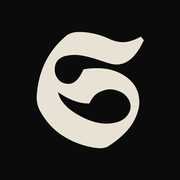
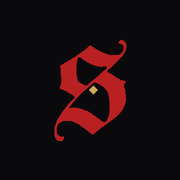
Add files via upload

Changed region(s): [[0.1944, 0.1667, 0.8056, 0.8333]]

diff --git a/index.html b/index.html
@@ -21,6 +21,8 @@
   --ash:#8B8780;
   --dim:#5E5B56;
   --sanguis:#8C1626;
+  --crimson:#B92022;
+  --gold:#CDAB58;
   --sanguis-lo:#4A0C15;
   --viola:#5A4670;
   --viola-lo:#2E2440;
@@ -52,14 +54,15 @@ button{font:inherit;color:inherit;background:none;border:none;cursor:pointer}
 /* ---- header ---- */
 header{padding:14px 18px 12px;border-bottom:1px solid var(--edge);
   display:flex;align-items:center;gap:14px;background:var(--nox);position:sticky;top:0;z-index:20}
-.mark{width:36px;flex:0 0 36px}
+.mark{width:30px;flex:0 0 30px}
 .mark svg{width:100%;height:auto;display:block}
-.mark path{fill:var(--ossa);stroke:none}
+.mark path{stroke:none}
 .hsub .cist{display:inline-block;width:10px;margin-right:8px;vertical-align:-1px}
 .hsub .cist svg{width:100%;height:auto;display:block}
 .hsub .cist path{stroke:var(--dim);stroke-width:5;fill:none;stroke-linecap:square}
 .hgroup{flex:1;min-width:0}
-.wordmark{font-family:var(--serif);font-size:19px;letter-spacing:.34em;line-height:1;margin:0 0 5px}
+.wordmark{width:132px;margin:0 0 6px}
+.wordmark svg{width:100%;height:auto;display:block}
 .hsub{font-size:9.5px;letter-spacing:.18em;text-transform:uppercase;color:var(--dim)}
 .hbtn{padding:8px;margin:-8px;color:var(--ash);font-size:11px;letter-spacing:.14em;text-transform:uppercase}
 
@@ -195,6 +198,49 @@ header{padding:14px 18px 12px;border-bottom:1px solid var(--edge);
 .cardacts{display:flex;gap:9px;margin-top:17px;width:100%;max-width:450px}
 .cardacts .btn{padding:14px 4px;font-size:10px;letter-spacing:.08em}
 #cardHint{font-size:11px;color:var(--dim);margin:14px 0 0;text-align:center;max-width:350px;line-height:1.6}
+/* ---- session summary, after the reference ---- */
+.doneWrap{padding:26px 22px 10px;text-align:center}
+.doneMark{width:104px;margin:0 auto 16px}
+.doneMark svg{width:100%;height:auto;display:block}
+.doneWord{width:232px;margin:0 auto 30px}
+.doneWord svg{width:100%;height:auto;display:block}
+.vaulted{font-family:var(--serif);font-style:italic;font-size:21px;color:#7E7D85;margin-bottom:34px}
+.volLabel{font-size:10px;letter-spacing:.24em;text-transform:uppercase;color:#7E7D85;margin-bottom:10px}
+.volBig{font-family:var(--mono);font-size:46px;color:var(--gold);line-height:1;margin-bottom:32px;
+  font-variant-numeric:tabular-nums}
+.volBig .u{font-size:34px;margin-left:12px}
+.trio{display:flex;margin-bottom:30px}
+.trio div{flex:1}
+.trio .k{font-size:9.5px;letter-spacing:.2em;text-transform:uppercase;color:#7E7D85;margin-bottom:9px}
+.trio .v{font-family:var(--mono);font-size:23px;color:var(--ossa)}
+#doneNotes{width:100%;min-height:104px;background:var(--crypt);border:1px solid var(--edge);
+  color:var(--ossa);font-family:var(--sys);font-size:14px;padding:14px;border-radius:10px;
+  -webkit-appearance:none;resize:none;line-height:1.5}
+#doneNotes::placeholder{color:var(--dim)}
+.btn.save{background:var(--crimson);border-color:var(--crimson);color:#fff;border-radius:10px}
+.btn.save:active{background:#9C1A1C}
+.doneRecs{text-align:left;margin-top:30px}
+
+/* ---- history detail ---- */
+.hrow{cursor:pointer}
+.hrow .go{color:var(--dim);font-size:15px;flex:0 0 auto;margin-left:2px}
+.dtHead{padding:22px 18px 16px;border-bottom:1px solid var(--edge)}
+.dtHead h2{font-family:var(--serif);font-size:24px;margin:0 0 6px}
+.dtHead .sub{font-size:10.5px;letter-spacing:.14em;text-transform:uppercase;color:var(--ash)}
+.dtStats{display:flex;padding:16px 18px;border-bottom:1px solid var(--edge)}
+.dtStats div{flex:1}
+.dtStats .k{font-size:9px;letter-spacing:.18em;text-transform:uppercase;color:var(--ash);margin-bottom:6px}
+.dtStats .v{font-family:var(--mono);font-size:16px}
+.dtStats .v.gold{color:var(--gold)}
+.dtEx{padding:15px 18px;border-bottom:1px solid var(--stone)}
+.dtEx h5{font-family:var(--serif);font-size:16px;font-weight:400;margin:0 0 3px;line-height:1.3}
+.dtEx .tg{font-size:9.5px;letter-spacing:.14em;text-transform:uppercase;color:var(--dim);margin-bottom:9px}
+.dtSets{display:flex;flex-wrap:wrap;gap:7px}
+.dtSet{font-family:var(--mono);font-size:12.5px;background:var(--crypt);border:1px solid var(--edge);
+  padding:7px 10px;color:var(--ossa)}
+.dtSet.pr{border-color:var(--crimson);color:var(--crimson)}
+.dtEx.sk h5{color:var(--dim);text-decoration:line-through}
+.dtNote{margin:10px 0 0;font-size:13px;color:var(--ash);line-height:1.55;font-style:italic}
 #toast{position:fixed;left:50%;bottom:96px;transform:translate(-50%,14px);z-index:60;
   background:var(--stone);border:1px solid var(--edge);padding:11px 17px;font-size:12px;
   opacity:0;transition:.25s;pointer-events:none;max-width:88vw;text-align:center}
@@ -207,7 +253,7 @@ header{padding:14px 18px 12px;border-bottom:1px solid var(--edge);
   <header>
     <div class="mark" id="mark"></div>
     <div class="hgroup">
-      <div class="wordmark">SANCTVM</div>
+      <div class="wordmark" id="wordmark"></div>
       <div class="hsub" id="hsub">Ora · et · Labora</div>
     </div>
     <button class="hbtn" id="navBtn">Log</button>
@@ -278,11 +324,32 @@ header{padding:14px 18px 12px;border-bottom:1px solid var(--edge);
   </section>
   <!-- SESSION SUMMARY -->
   <section class="screen" id="scDone">
-    <div class="scroll"><div class="sec" id="doneStats"></div></div>
+    <div class="scroll">
+      <div class="doneWrap">
+        <div class="doneMark" id="doneMark"></div>
+        <div class="doneWord" id="doneWord"></div>
+        <div class="vaulted">Progress vaulted.</div>
+        <div class="volLabel">Volume</div>
+        <div class="volBig" id="volBig">0<span class="u">kg</span></div>
+        <div class="trio" id="doneTrio"></div>
+        <textarea id="doneNotes" placeholder="Notes"></textarea>
+        <div class="doneRecs" id="doneRecs"></div>
+      </div>
+    </div>
     <div class="foot"><div class="in">
-      <button class="btn" id="doneHome">Done</button>
-      <button class="btn pri" id="makeCard">Make card</button>
+      <button class="btn" id="makeCard">Card</button>
+      <button class="btn save" id="doneHome">Save</button>
     </div></div>
+  </section>
+
+  <!-- HISTORY DETAIL -->
+  <section class="screen" id="scDetail">
+    <div class="scroll">
+      <div class="dtHead"><h2 id="dtName">—</h2><div class="sub" id="dtSub"></div></div>
+      <div class="dtStats" id="dtStats"></div>
+      <div id="dtBody"></div>
+    </div>
+    <div class="foot"><div class="in"><button class="btn" id="dtBack">Back</button></div></div>
   </section>
 </div>
 
@@ -391,7 +458,8 @@ function weekStart(){
 }
 
 /* ---- wordmark letter: UnifrakturCook (SIL OFL 1.1), drawn as a path so no font loads ---- */
-const MARK='<svg viewBox="41 -1564 1414 1534" aria-hidden="true"><g transform="scale(1,-1)"><path d="M994 1475Q1087 1429 1183.5 1429.0Q1280 1429 1416 1502L1455 1455Q1307 1134 1095 1134Q1036 1134 939 1168Q670 1261 549 1261Q492 1261 435 1250Q279 1217 279 1066Q279 1012 307 965Q357 879 465.0 879.0Q573 879 659 1071Q752 1086 835 1086Q999 1086 1123 1028Q1310 941 1370 784Q1395 719 1395.0 632.5Q1395 546 1345 432Q1260 236 996 62Q947 30 885 30Q821 30 746 47Q546 89 376.0 200.0Q206 311 94 506Q41 595 41 703Q41 716 42 729Q77 1215 426 1509Q492 1565 608 1564Q802 1561 994 1475ZM322 769Q360 594 610 457Q799 354 962 354Q1016 354 1067 365Q1169 386 1222 445Q1280 509 1280.0 579.5Q1280 650 1222.5 717.0Q1165 784 1041 805Q1029 807 996.0 807.0Q963 807 887 778Q792 742 736 620Q727 620 718 620Q539 620 322 769Z"/></g></svg>';
+const MARK='<svg viewBox="0 0 1608.00 2160.00"><g transform="translate(0.00,2160.00) scale(0.10,-0.10)"><path fill="#B92022" d="M13740 20365 c-73 -35 -349 -306 -385 -379 -75 -151 -10 -278 157 -306 37 -7 100 -28 140 -47 99 -48 139 -61 217 -73 130 -21 307 -157 378 -291 l28 -54 3 -345 c4 -403 7 -380 -96 -590 l-76 -155 -200 -201 c-217 -218 -240 -235 -446 -334 l-134 -65 -846 0 -845 0 -100 47 c-102 48 -145 61 -226 72 -26 4 -80 23 -120 42 -100 49 -140 62 -218 74 -39 7 -105 29 -161 55 -52 24 -120 49 -150 56 -30 6 -75 15 -100 21 -50 11 -1265 614 -1317 654 -18 14 -59 48 -90 75 -32 28 -106 75 -165 105 -93 48 -122 70 -233 175 -137 131 -184 159 -295 179 -100 18 -128 39 -202 149 -45 66 -93 85 -223 85 -178 0 -163 10 -589 -412 l-361 -358 -110 -56 c-72 -37 -136 -79 -185 -122 -48 -42 -114 -86 -183 -122 -94 -48 -124 -70 -239 -179 -114 -109 -144 -131 -237 -179 -68 -35 -133 -78 -181 -120 -47 -42 -114 -86 -180 -120 -66 -34 -133 -79 -180 -120 -48 -42 -114 -86 -183 -122 -94 -48 -124 -71 -230 -171 -142 -136 -189 -168 -266 -183 -31 -7 -78 -17 -106 -22 -129 -28 -311 -145 -371 -238 -47 -74 -78 -94 -410 -260 -209 -104 -296 -153 -338 -190 -95 -83 -114 -95 -333 -205 -146 -74 -229 -122 -267 -155 -96 -84 -115 -96 -336 -206 -415 -208 -540 -393 -422 -627 23 -45 47 -95 54 -112 10 -23 14 -184 18 -696 l5 -666 47 -94 c71 -143 68 -110 68 -799 0 -682 2 -659 -62 -784 -27 -53 -45 -106 -54 -160 -19 -110 -15 -97 -121 -312 -111 -227 -115 -244 -79 -318 53 -108 139 -153 318 -166 151 -10 88 16 671 -275 498 -249 513 -258 614 -346 32 -28 105 -75 163 -105 64 -33 132 -78 175 -116 83 -73 145 -103 240 -118 126 -19 159 -42 386 -269 332 -333 332 -326 -6 -670 -244 -249 -331 -325 -417 -371 -86 -45 -113 -72 -161 -165 -37 -71 -68 -107 -288 -330 l-247 -251 -53 -107 c-48 -99 -62 -119 -180 -242 -118 -123 -133 -142 -181 -242 -52 -106 -57 -112 -240 -299 -181 -185 -188 -194 -238 -295 -36 -75 -70 -126 -121 -183 -50 -56 -85 -107 -120 -180 -35 -72 -70 -123 -119 -178 -60 -68 -84 -108 -180 -300 -96 -195 -120 -233 -181 -302 -50 -56 -84 -107 -120 -180 -36 -72 -70 -123 -121 -181 -77 -86 -103 -133 -113 -210 -12 -85 -25 -127 -67 -209 -27 -53 -45 -106 -54 -160 -18 -105 -19 -106 -69 -207 -31 -64 -45 -108 -54 -170 -11 -76 -24 -107 -124 -309 l-112 -224 0 -786 0 -786 47 -95 c48 -97 61 -138 73 -224 10 -77 36 -124 113 -210 50 -56 85 -108 118 -175 81 -167 155 -227 309 -250 44 -7 105 -27 165 -55 212 -99 432 -93 645 16 155 79 162 86 256 265 141 270 150 312 91 439 -86 183 -179 210 -391 111 -176 -83 -264 -68 -421 70 -41 36 -105 81 -142 101 -67 35 -118 84 -170 162 -16 23 -47 53 -70 69 -154 101 -148 70 -148 747 0 658 -16 563 158 915 l137 275 91 91 c78 78 107 99 200 147 65 33 135 79 174 112 85 75 137 107 300 185 l134 65 726 0 725 0 100 -47 c55 -26 125 -52 155 -59 30 -6 75 -15 98 -20 24 -5 179 -77 345 -160 337 -168 353 -175 446 -190 93 -14 134 -36 231 -118 54 -46 124 -92 191 -127 93 -48 123 -70 237 -179 115 -109 145 -131 239 -179 69 -36 135 -80 183 -122 47 -41 114 -86 180 -120 66 -34 133 -78 180 -120 49 -43 113 -85 185 -122 109 -56 112 -58 355 -297 245 -242 245 -242 358 -300 109 -55 121 -65 295 -234 282 -274 305 -276 535 -59 110 103 139 125 235 174 106 54 118 64 298 239 181 176 191 184 300 240 114 58 115 59 344 285 280 275 253 255 513 385 l214 107 130 124 c115 109 143 130 240 179 96 50 124 70 240 180 115 110 143 131 240 180 96 50 124 70 240 180 114 109 144 131 237 179 68 35 133 78 181 120 48 42 114 86 183 122 94 48 124 70 239 179 117 112 142 131 242 181 l111 56 398 397 398 396 57 115 c56 113 60 117 245 307 206 210 218 229 237 358 15 99 41 150 124 243 79 87 220 361 231 447 11 85 25 127 72 221 45 91 45 93 53 227 l8 134 53 109 54 108 0 607 0 606 -42 84 c-23 46 -48 98 -55 114 -9 21 -14 136 -18 395 l-5 366 -107 214 c-58 118 -111 233 -117 255 -14 53 -14 438 0 490 26 95 158 339 224 413 149 167 127 268 -65 302 -36 6 -108 31 -160 55 -124 58 -167 65 -380 65 -245 0 -290 16 -358 130 -38 64 -75 88 -377 240 -309 157 -325 166 -422 251 -32 28 -105 75 -163 105 -66 34 -133 78 -180 120 -47 41 -114 86 -180 120 -65 34 -133 79 -179 119 -65 57 -116 86 -409 233 -419 209 -542 305 -542 422 0 93 344 440 531 534 l114 58 877 876 c826 825 880 881 924 959 53 94 89 130 176 174 40 20 95 64 160 127 l98 95 116 231 c99 200 124 241 184 308 61 69 83 107 210 362 l142 285 8 134 8 134 53 109 54 108 0 186 0 186 -47 95 c-48 97 -62 139 -73 224 -9 75 -154 365 -210 420 -33 34 -105 74 -321 182 -325 161 -370 172 -484 118z m-7559 -3357 c37 -19 101 -70 187 -152 115 -110 145 -132 239 -180 69 -36 135 -80 183 -122 47 -41 114 -86 180 -120 66 -34 133 -79 180 -119 69 -61 122 -90 694 -376 601 -300 669 -330 767 -344 26 -3 84 -24 128 -45 87 -42 157 -64 232 -75 26 -3 80 -22 120 -41 129 -63 142 -66 334 -73 l181 -7 100 -47 c210 -98 539 -98 749 1 l100 47 185 0 c168 0 189 -2 230 -21 97 -46 170 -138 170 -214 0 -105 -258 -377 -450 -475 l-115 -58 -295 -292 c-292 -289 -338 -328 -435 -378 -64 -32 -93 -65 -140 -154 -48 -94 -100 -140 -226 -204 -101 -50 -107 -56 -349 -293 l-245 -242 -114 -58 c-111 -57 -121 -65 -302 -241 -181 -177 -190 -184 -300 -240 -145 -73 -416 -333 -478 -458 -45 -90 -89 -127 -239 -200 l-126 -62 -185 0 c-221 0 -230 3 -361 114 -75 63 -123 91 -415 237 -338 169 -354 179 -452 266 -32 27 -83 63 -114 78 -129 66 -150 100 -160 269 -7 119 -9 128 -48 205 -63 127 -64 129 -71 328 l-6 187 -46 93 c-72 145 -68 66 -68 1278 0 1211 -4 1133 67 1276 45 91 45 93 53 227 l8 134 52 106 c52 105 52 106 59 229 14 223 49 249 326 245 152 -2 163 -3 216 -29z m2744 -4679 c51 -14 988 -481 1032 -515 18 -14 59 -48 90 -75 32 -28 105 -75 163 -105 67 -34 132 -78 180 -120 41 -36 101 -79 132 -95 83 -42 121 -80 169 -167 34 -62 78 -113 228 -267 l186 -190 144 -289 143 -289 8 -135 c8 -131 9 -137 49 -216 66 -132 64 -123 70 -387 l6 -246 47 -94 c72 -146 68 -60 68 -1339 0 -1278 4 -1193 -68 -1338 l-46 -93 -6 -187 c-8 -213 1 -181 -130 -447 -69 -138 -101 -215 -106 -250 -11 -89 -24 -128 -97 -275 -96 -194 -124 -221 -321 -318 -244 -120 -252 -119 -571 40 -259 128 -288 150 -345 254 -67 122 -98 147 -341 268 -255 128 -240 117 -454 326 -161 158 -176 170 -280 223 -71 37 -137 80 -185 123 -47 41 -114 86 -180 120 -65 33 -133 79 -179 118 -59 53 -113 85 -285 171 -241 122 -244 124 -388 263 -140 134 -173 150 -343 162 l-127 9 -151 72 c-84 40 -170 83 -192 95 -56 32 -116 52 -194 64 -38 7 -106 29 -161 55 -98 45 -141 59 -221 69 -26 4 -80 23 -120 42 -116 57 -146 64 -277 74 -116 8 -128 11 -220 54 -137 64 -154 66 -612 66 -459 0 -475 -2 -613 -67 -192 -89 -384 -35 -404 115 -8 62 14 91 257 337 l228 230 53 110 53 110 308 311 308 311 46 98 c54 116 115 183 214 234 88 46 115 73 162 166 55 106 895 954 1006 1015 104 57 125 73 158 120 66 91 106 128 177 166 58 30 107 72 247 209 177 173 225 212 315 258 64 32 93 65 140 154 48 94 100 140 226 204 101 50 107 56 349 293 l246 242 134 69 c184 93 211 102 275 84z"/></g><path d="M 858.7 985.3 L 944.7 1071.4 L 858.7 1157.4 L 772.6 1071.4 Z" fill="#CDAB58"/></svg>';
+const WORD='<svg viewBox="0 0 5100.00 1224.00"><g transform="translate(0.00,1224.00) scale(0.10,-0.10)"><path fill="#B92022" d="M30975 10978 c-11 -6 -53 -42 -93 -79 -52 -49 -89 -74 -130 -89 -115 -42 -132 -53 -249 -174 -107 -109 -121 -128 -141 -187 -29 -82 -47 -100 -142 -138 -106 -43 -185 -126 -218 -229 -42 -130 -228 -319 -359 -363 -69 -23 -101 -54 -123 -122 -19 -61 -54 -93 -133 -123 l-72 -27 -445 -442 c-458 -455 -459 -455 -585 -500 -43 -15 -87 -54 -310 -275 -259 -255 -297 -287 -367 -310 -84 -26 -95 -85 -30 -154 75 -78 86 -80 447 -86 364 -6 355 -4 449 -97 95 -93 86 144 86 -2173 0 -1272 -4 -2058 -10 -2078 -5 -19 -30 -65 -56 -102 -45 -67 -47 -71 -53 -167 -10 -129 -16 -139 -187 -314 -169 -172 -187 -206 -149 -279 22 -42 64 -60 161 -70 88 -9 101 -14 197 -73 42 -26 75 -37 115 -41 116 -12 159 -24 221 -64 34 -23 91 -50 125 -62 64 -21 103 -49 211 -150 37 -35 79 -63 110 -75 121 -43 136 -55 400 -316 278 -274 294 -286 382 -295 120 -13 174 20 217 132 22 59 42 88 120 172 82 88 96 109 112 164 11 34 37 90 60 123 22 33 49 85 59 115 29 90 40 105 194 264 88 90 151 163 155 179 27 110 47 139 193 289 175 180 200 226 150 284 -38 43 -65 29 -212 -115 -200 -197 -293 -220 -466 -116 -41 25 -102 54 -135 65 -125 42 -313 232 -354 357 -13 37 -40 93 -62 124 -61 88 -58 -27 -58 2109 0 2250 -9 2020 86 2113 99 98 51 91 694 97 l565 5 46 27 c137 81 169 153 169 384 0 239 -11 265 -123 303 -32 11 -78 34 -103 51 -104 70 -58 64 -616 70 -644 6 -598 -16 -598 295 0 208 3 224 66 315 45 66 46 71 54 167 8 105 13 121 65 193 18 25 42 74 54 110 11 35 38 89 60 120 21 30 48 84 60 120 11 35 38 89 60 120 21 30 48 84 60 120 11 35 38 89 60 120 21 30 48 84 60 120 11 36 39 91 60 123 22 32 47 81 57 110 27 83 42 106 126 194 107 112 128 165 87 217 -22 28 -42 32 -74 14z M4316 10790 c-27 -5 -74 -25 -106 -44 -86 -53 -104 -58 -250 -66 -192 -10 -251 -50 -222 -149 27 -87 115 -94 242 -20 l74 44 461 3 c543 4 542 4 632 -51 37 -22 100 -53 138 -67 39 -14 94 -43 123 -63 30 -20 75 -43 102 -51 74 -22 99 -38 197 -129 63 -57 108 -91 140 -103 115 -42 138 -56 235 -152 106 -103 135 -145 163 -229 9 -29 34 -78 56 -110 21 -32 48 -86 60 -121 11 -34 37 -85 56 -113 89 -129 88 -255 0 -378 -44 -60 -57 -100 -57 -177 0 -131 -91 -244 -236 -294 -32 -11 -88 -39 -125 -61 -98 -59 -98 -59 -539 -59 -441 0 -441 0 -539 59 -37 22 -93 50 -125 61 -67 23 -95 42 -199 139 -48 44 -91 74 -123 86 -108 39 -137 60 -282 200 -141 135 -213 185 -271 185 -4 0 -37 19 -72 41 -146 95 -157 91 -419 -165 -208 -204 -229 -220 -345 -261 -43 -16 -88 -55 -320 -285 -232 -229 -277 -269 -320 -285 -132 -47 -136 -50 -506 -422 -348 -350 -356 -359 -373 -418 -27 -88 -35 -101 -133 -206 -106 -115 -113 -132 -113 -298 0 -134 -6 -157 -62 -237 -80 -113 -80 -235 0 -348 56 -80 62 -103 62 -239 0 -141 7 -168 64 -252 23 -33 49 -89 60 -123 16 -55 30 -76 108 -160 98 -106 107 -119 134 -207 18 -58 28 -70 285 -330 272 -276 283 -290 314 -385 10 -30 38 -84 62 -119 60 -88 60 -134 0 -222 -24 -35 -54 -94 -66 -132 -27 -80 -69 -136 -182 -240 -83 -77 -118 -98 -214 -132 -81 -28 -174 -130 -203 -221 -35 -112 -125 -207 -227 -240 -238 -78 -160 -396 121 -488 28 -9 66 -28 85 -42 64 -48 107 -64 199 -73 94 -10 107 -15 203 -74 42 -26 75 -37 115 -41 116 -12 159 -24 221 -64 34 -23 91 -50 126 -62 35 -12 81 -34 103 -50 67 -48 98 -60 189 -69 103 -11 110 -13 186 -62 32 -21 87 -47 121 -59 64 -21 106 -51 206 -146 73 -69 103 -82 212 -94 136 -14 178 -55 178 -175 0 -167 151 -319 283 -285 37 10 123 92 777 744 777 775 768 766 857 797 96 33 123 74 123 192 0 119 97 241 225 283 90 30 105 47 146 157 18 50 42 80 173 215 193 200 176 131 176 712 0 581 17 512 -176 712 -154 159 -175 189 -200 295 -5 19 -134 156 -395 419 -454 457 -429 420 -429 614 0 192 -13 171 328 511 294 292 304 300 427 344 43 15 83 51 283 249 278 276 273 268 281 395 4 53 11 103 15 111 5 8 29 45 54 82 43 64 45 70 51 165 8 103 13 120 66 193 77 108 76 234 -2 341 -55 77 -63 106 -63 236 0 140 -10 180 -61 251 -21 30 -48 83 -59 118 -12 35 -37 87 -57 115 -19 28 -48 83 -64 122 -31 78 -60 108 -119 126 -59 17 -89 48 -125 127 -36 78 -45 85 -150 125 -47 18 -80 44 -204 164 -172 167 -179 171 -306 184 -84 9 -106 15 -149 42 -105 67 -116 70 -265 78 -124 7 -145 11 -190 34 -174 91 -130 82 -381 84 -124 1 -247 -2 -274 -7z m-1381 -2654 c19 -8 54 -28 77 -44 24 -15 72 -39 107 -51 35 -13 90 -40 123 -61 32 -21 88 -48 122 -60 64 -21 103 -49 211 -150 45 -42 79 -64 135 -85 41 -16 100 -45 131 -65 31 -20 85 -47 119 -59 34 -13 88 -40 120 -60 32 -21 86 -48 120 -60 34 -13 89 -40 122 -61 32 -21 88 -48 123 -60 35 -12 81 -34 103 -50 81 -58 98 -63 255 -70 206 -9 242 -39 234 -195 -5 -119 8 -103 -620 -731 -677 -677 -615 -629 -817 -629 -182 0 -181 -1 -371 183 -138 132 -211 182 -268 182 -52 0 -174 140 -203 234 l-22 71 -268 271 c-334 338 -307 287 -308 604 0 271 3 289 58 369 22 31 49 86 61 124 37 109 220 307 319 343 58 21 130 55 201 94 60 34 86 37 136 16z m1331 -2883 c23 -12 106 -84 185 -161 114 -110 155 -142 194 -157 97 -35 131 -55 208 -126 116 -107 162 -168 189 -252 22 -69 28 -77 170 -224 153 -158 164 -173 193 -263 10 -30 35 -80 57 -111 53 -77 58 -100 58 -299 0 -199 -5 -222 -58 -299 -22 -31 -49 -85 -61 -120 -39 -119 -114 -197 -230 -238 -36 -13 -96 -42 -132 -64 -87 -52 -114 -59 -239 -59 -125 0 -152 7 -239 59 -36 22 -96 51 -133 64 -37 13 -82 36 -100 49 -59 44 -96 58 -185 67 -103 11 -110 13 -186 62 -32 21 -82 45 -110 55 -29 9 -80 34 -113 55 -34 22 -92 52 -130 66 -38 15 -94 43 -125 63 -31 20 -85 47 -119 59 -34 13 -88 40 -120 60 -32 21 -86 48 -120 60 -34 13 -89 40 -122 61 -32 21 -88 48 -123 60 -92 31 -294 209 -311 274 -14 58 -3 71 584 657 537 536 604 598 672 620 60 19 402 5 446 -18z M37293 9343 c-36 -7 -69 -46 -92 -109 -12 -32 -39 -84 -60 -114 -21 -30 -46 -80 -56 -110 -29 -90 -40 -105 -193 -263 -141 -146 -148 -155 -170 -223 -35 -112 -125 -207 -227 -240 -89 -30 -105 -47 -145 -154 -15 -41 -40 -76 -99 -137 -125 -130 -123 -142 58 -321 154 -152 162 -166 172 -295 6 -96 8 -100 53 -167 26 -37 51 -83 56 -102 23 -77 12 -3758 -11 -3808 -13 -30 -74 -98 -188 -212 -169 -169 -180 -177 -303 -222 -31 -12 -79 -46 -140 -102 -159 -145 -264 -163 -414 -72 -38 23 -98 53 -134 66 -143 52 -436 344 -480 479 -13 37 -40 93 -62 124 -21 30 -43 71 -48 90 -6 22 -10 807 -10 2184 0 2345 4 2191 -63 2289 -23 34 -50 90 -61 124 -16 55 -30 76 -108 160 -99 106 -107 119 -134 207 -25 82 -237 301 -319 330 -107 38 -138 59 -283 199 -101 97 -161 147 -192 160 -25 10 -81 36 -126 57 -98 47 -95 47 -175 5 -35 -18 -86 -41 -112 -51 -56 -21 -87 -57 -111 -130 -9 -27 -34 -74 -55 -105 -21 -30 -48 -86 -61 -123 -24 -73 -38 -93 -145 -208 -61 -63 -75 -85 -91 -140 -10 -35 -37 -91 -60 -124 -22 -33 -51 -91 -63 -128 -25 -73 -39 -93 -146 -207 -193 -205 -82 -474 137 -332 225 146 532 57 609 -176 12 -37 39 -92 61 -123 61 -88 58 22 58 -2039 0 -2061 3 -1951 -58 -2039 -22 -31 -47 -81 -57 -111 -29 -90 -40 -105 -195 -265 -118 -121 -150 -160 -155 -188 -15 -81 20 -128 122 -161 28 -10 69 -30 91 -46 67 -48 98 -60 189 -69 103 -11 110 -13 186 -62 32 -21 82 -45 110 -55 29 -9 80 -34 115 -56 34 -23 93 -52 130 -65 75 -28 100 -45 205 -142 48 -44 91 -74 123 -86 96 -35 130 -55 207 -126 105 -96 162 -168 182 -231 21 -64 57 -114 87 -123 13 -4 65 -27 116 -52 134 -64 128 -67 379 197 105 111 121 133 141 191 29 82 47 100 141 138 73 29 81 37 395 349 335 333 334 332 424 363 31 11 86 37 122 59 147 89 297 16 360 -175 13 -38 42 -97 64 -130 23 -33 50 -89 60 -125 25 -87 471 -544 561 -575 96 -34 131 -55 217 -135 131 -119 119 -115 353 -115 259 0 260 1 315 147 15 40 45 81 114 156 82 88 96 109 112 164 11 34 37 90 60 123 22 33 51 91 63 128 25 73 39 93 146 207 59 63 73 85 90 140 11 36 38 93 62 127 63 92 81 191 49 268 -28 65 -51 61 -313 -67 -118 -58 -115 -59 -309 136 -189 189 -195 198 -205 329 -6 96 -8 100 -53 167 -70 102 -66 -8 -66 1750 0 1739 -3 1651 58 1739 54 78 62 108 62 240 0 137 7 167 58 240 22 31 47 81 57 111 28 85 39 103 135 205 166 176 178 149 -300 630 -393 396 -404 408 -435 505 -10 30 -37 82 -59 115 -23 34 -50 89 -61 124 -38 125 -169 233 -262 214z M41024 9231 c-86 -22 -189 -124 -218 -217 -27 -87 -36 -101 -134 -206 -78 -84 -92 -105 -108 -160 -11 -34 -37 -90 -60 -123 -22 -33 -51 -89 -62 -125 -12 -35 -39 -89 -61 -120 -21 -30 -46 -80 -56 -110 -27 -85 -41 -106 -124 -194 -104 -108 -115 -131 -116 -233 0 -165 67 -173 214 -27 72 73 121 87 285 82 185 -6 284 -75 337 -236 12 -37 39 -92 61 -123 61 -88 58 22 58 -2039 0 -2061 3 -1951 -58 -2039 -22 -31 -49 -85 -61 -121 -11 -35 -38 -89 -60 -120 -21 -30 -48 -85 -60 -122 -12 -36 -39 -90 -60 -120 -47 -66 -61 -106 -61 -176 0 -115 -5 -108 355 -472 349 -353 351 -354 381 -475 4 -14 49 -72 100 -127 78 -84 98 -113 120 -171 41 -107 87 -138 170 -115 46 12 167 129 178 171 30 123 31 124 380 477 l332 335 23 74 c21 66 32 84 98 153 111 116 116 135 63 238 -16 30 -38 80 -49 110 -11 30 -36 77 -55 104 -20 26 -45 78 -57 115 -12 36 -39 91 -61 122 -53 77 -58 100 -58 300 0 196 -4 217 -62 300 -60 87 -58 48 -58 1086 l0 962 36 68 c46 87 46 119 0 206 l-36 68 0 482 c0 524 0 522 58 606 22 31 49 83 61 116 29 79 50 99 135 131 65 25 84 40 217 169 166 161 190 175 312 186 69 7 100 15 136 35 158 92 180 94 293 16 24 -16 67 -37 96 -46 74 -25 105 -55 132 -128 12 -35 38 -85 58 -111 46 -64 61 -109 62 -183 0 -76 13 -114 61 -184 22 -31 49 -85 60 -120 12 -36 39 -90 61 -121 61 -88 58 -4 58 -1679 0 -1674 3 -1591 -58 -1679 -54 -78 -62 -108 -62 -240 0 -137 -7 -167 -58 -240 -22 -31 -49 -87 -62 -124 -24 -73 -38 -93 -145 -207 -77 -82 -95 -122 -95 -210 0 -114 -10 -101 415 -530 416 -419 412 -414 441 -537 11 -48 250 -279 302 -292 100 -27 238 77 277 209 11 35 38 91 61 125 22 33 49 85 59 115 31 96 42 109 375 445 355 359 350 352 350 467 0 70 -14 110 -61 176 -21 30 -48 84 -60 120 -12 37 -39 92 -60 122 -22 31 -49 85 -60 120 -12 36 -39 90 -61 121 -61 88 -58 -23 -58 2049 0 1915 1 1925 21 1970 37 81 469 502 544 529 33 12 90 38 127 57 84 43 91 43 186 -5 42 -21 93 -44 113 -50 91 -29 523 -461 557 -557 12 -32 33 -81 48 -109 40 -75 45 -99 29 -153 -21 -69 -19 -93 20 -173 l35 -73 0 -421 c0 -457 0 -461 -58 -544 -65 -93 -62 -48 -62 -961 0 -913 -3 -868 62 -961 59 -84 58 -78 58 -660 0 -580 -1 -571 57 -650 48 -68 63 -110 63 -182 0 -79 12 -116 64 -192 23 -34 50 -90 61 -125 28 -94 119 -186 222 -224 79 -30 114 -62 133 -123 22 -68 54 -99 123 -122 65 -22 107 -52 207 -147 74 -70 104 -83 214 -93 98 -10 113 -15 184 -63 114 -78 185 -54 236 79 22 58 42 87 120 171 82 88 96 109 112 164 11 34 37 90 60 123 22 33 51 91 63 128 25 73 39 93 146 207 59 63 74 85 90 139 10 36 38 94 62 129 23 36 52 93 63 128 12 34 34 80 50 102 105 145 66 246 -70 177 -27 -14 -75 -35 -107 -46 -31 -12 -83 -39 -116 -60 -111 -72 -157 -64 -284 49 -118 106 -167 168 -194 249 -12 38 -39 93 -61 124 -61 88 -58 -26 -58 2099 0 2125 -3 2011 58 2099 22 31 49 86 61 123 27 82 60 126 193 253 143 137 149 182 31 230 -28 11 -72 34 -99 51 -78 50 -88 54 -181 63 -103 11 -110 13 -186 62 -32 21 -82 45 -110 55 -29 9 -80 34 -115 56 -34 23 -92 51 -128 65 -36 13 -87 38 -112 55 -26 18 -78 45 -117 61 -90 36 -109 55 -136 136 -26 73 -428 500 -529 559 -66 39 -194 39 -260 0 -90 -52 -262 -244 -289 -321 -27 -77 -56 -107 -131 -132 -55 -18 -90 -55 -110 -118 -19 -61 -54 -93 -133 -123 -70 -26 -79 -34 -334 -286 -262 -258 -311 -298 -373 -298 -85 0 -205 115 -241 230 l-23 75 -365 366 -366 367 -75 28 c-41 15 -101 45 -133 65 -32 21 -87 47 -122 59 -35 12 -81 34 -103 50 -164 118 -315 92 -375 -65 -46 -119 -236 -308 -346 -342 -71 -23 -111 -63 -134 -135 -21 -68 -76 -138 -184 -237 -77 -71 -111 -91 -208 -126 -40 -15 -79 -47 -196 -160 -153 -148 -188 -172 -268 -182 -123 -14 -184 19 -221 119 -13 35 -41 90 -64 123 -23 33 -50 89 -60 125 -25 87 -471 544 -561 575 -97 34 -131 55 -221 139 -82 75 -168 126 -212 126 -4 0 -32 16 -62 36 -30 20 -67 42 -83 51 -34 17 -149 26 -193 14z M25305 9111 c-37 -9 -68 -26 -118 -62 -21 -15 -67 -37 -102 -49 -35 -12 -90 -38 -122 -59 -76 -49 -83 -51 -186 -62 -91 -9 -122 -21 -189 -69 -22 -16 -68 -38 -104 -50 -35 -12 -88 -38 -117 -58 -28 -20 -85 -48 -124 -63 -40 -15 -97 -43 -127 -63 -29 -19 -83 -46 -120 -59 -36 -14 -94 -42 -128 -65 -35 -22 -81 -45 -103 -52 -82 -26 -117 -55 -406 -347 -286 -289 -296 -300 -313 -358 -27 -88 -35 -101 -134 -207 -78 -84 -92 -105 -108 -160 -11 -34 -37 -90 -60 -123 -22 -33 -51 -89 -62 -125 -12 -35 -39 -89 -61 -120 -21 -30 -48 -84 -60 -120 -11 -35 -38 -89 -60 -120 -49 -71 -61 -108 -61 -187 0 -72 -15 -114 -63 -182 -60 -81 -57 -27 -57 -1191 0 -1160 -2 -1110 55 -1190 53 -73 58 -90 66 -193 6 -96 8 -100 52 -165 58 -86 67 -110 67 -186 0 -78 12 -116 61 -186 22 -31 49 -85 61 -120 11 -36 40 -92 62 -125 23 -33 49 -89 60 -123 16 -55 30 -76 108 -160 99 -106 107 -119 134 -207 17 -57 28 -70 253 -298 264 -267 273 -273 402 -287 119 -12 165 -45 185 -133 9 -43 63 -90 125 -110 110 -34 300 -223 346 -342 42 -111 96 -144 216 -131 83 8 104 23 264 176 140 135 169 156 278 195 39 15 80 48 197 161 169 162 186 172 309 185 108 11 134 23 220 103 96 91 126 112 201 139 38 13 92 41 120 61 29 19 80 45 113 56 33 11 89 38 125 60 36 21 87 49 113 61 76 37 75 87 -2 109 -21 6 -194 10 -426 10 -416 0 -441 3 -510 50 -86 58 -102 63 -255 70 -151 7 -153 7 -250 66 -30 18 -82 43 -114 54 -79 27 -102 46 -305 244 -231 227 -264 268 -293 358 -20 64 -33 83 -111 167 -97 104 -106 118 -133 205 -16 50 -34 76 -108 155 -129 139 -126 128 -126 422 0 269 -3 285 -58 363 -56 80 -62 103 -62 239 0 140 -7 169 -62 248 -60 87 -58 48 -58 1079 0 1031 -2 992 58 1079 22 31 49 85 61 121 11 35 38 89 60 120 54 78 61 107 61 249 1 175 3 178 205 378 249 246 278 253 447 101 114 -103 162 -166 189 -245 12 -38 39 -93 60 -123 22 -31 49 -85 60 -120 12 -36 39 -90 60 -120 22 -31 49 -85 60 -120 12 -36 39 -90 60 -120 22 -31 49 -85 60 -120 12 -36 38 -87 57 -113 46 -63 61 -109 62 -182 0 -107 11 -128 133 -252 174 -178 218 -193 338 -116 35 23 94 53 131 66 37 13 96 42 130 65 35 22 86 47 114 56 28 9 72 30 97 46 97 61 105 63 252 70 218 10 244 35 245 235 0 132 -10 173 -61 245 -21 31 -49 85 -60 120 -12 36 -39 90 -60 120 -22 31 -49 85 -60 120 -12 36 -39 90 -60 120 -22 31 -49 85 -60 120 -12 36 -38 87 -57 113 -46 63 -61 109 -62 182 0 101 -13 127 -112 232 -107 114 -127 153 -128 243 0 120 -56 212 -169 278 -48 28 -362 45 -446 23z M10630 9098 c-45 -13 -284 -249 -294 -291 -28 -118 -36 -129 -320 -417 -265 -268 -272 -277 -295 -343 -27 -79 -53 -104 -141 -136 -55 -20 -80 -40 -210 -166 -147 -141 -177 -162 -285 -200 -45 -15 -101 -68 -536 -504 l-486 -486 -19 -65 c-11 -36 -37 -92 -60 -125 -22 -33 -51 -89 -62 -125 -12 -35 -39 -89 -61 -120 -49 -71 -61 -108 -61 -187 0 -72 -15 -114 -63 -182 -49 -67 -57 -100 -57 -238 0 -136 -6 -159 -62 -239 -58 -81 -58 -81 -58 -534 0 -457 -1 -451 62 -541 53 -77 58 -100 58 -300 0 -194 5 -219 58 -293 56 -80 62 -103 62 -239 0 -141 7 -168 64 -252 23 -33 49 -89 60 -123 16 -55 30 -76 108 -160 98 -106 107 -119 134 -207 17 -55 32 -73 171 -217 153 -159 172 -187 199 -294 14 -54 122 -152 204 -185 95 -38 113 -56 142 -137 19 -55 38 -82 115 -165 77 -83 97 -112 119 -171 33 -84 57 -111 115 -126 88 -24 163 -6 269 64 30 20 58 36 62 36 44 0 130 51 212 126 89 83 122 104 220 139 33 12 77 44 140 101 90 83 123 104 221 139 42 15 84 52 262 226 186 183 218 210 265 226 49 17 76 29 210 100 84 45 160 8 188 -92 7 -25 32 -73 56 -108 25 -34 53 -93 66 -132 l21 -70 246 -246 c244 -244 247 -247 321 -275 41 -15 100 -44 131 -64 31 -20 85 -47 120 -60 35 -12 84 -36 108 -53 24 -17 78 -45 120 -62 42 -18 98 -45 126 -59 80 -43 126 -20 258 128 71 80 88 105 103 158 11 35 37 90 60 123 22 33 51 91 63 128 25 73 39 93 146 207 56 60 74 87 89 135 27 88 36 102 133 206 73 79 91 105 107 155 28 89 38 105 136 209 113 120 129 180 64 240 -46 42 -115 36 -193 -18 -24 -17 -76 -42 -115 -57 -39 -14 -102 -45 -140 -68 -215 -130 -448 -4 -467 251 -6 96 -8 100 -53 167 -70 102 -66 -13 -66 1810 0 1804 -3 1711 58 1799 22 31 47 81 57 111 29 90 40 105 195 265 119 122 150 160 155 189 18 95 -48 156 -170 156 -57 0 -113 18 -160 50 -72 49 -103 60 -194 69 -114 12 -138 24 -242 120 -105 98 -127 109 -236 120 -103 11 -113 14 -173 55 -24 16 -76 43 -115 59 -85 34 -109 56 -131 116 -28 75 -58 107 -116 126 -91 30 -113 49 -503 436 -424 420 -417 415 -515 387z m-601 -1327 c27 -14 144 -122 305 -280 224 -221 268 -260 311 -276 98 -35 131 -55 215 -133 107 -99 128 -110 242 -122 103 -10 132 -25 160 -81 30 -57 27 -3753 -3 -3819 -25 -56 -336 -368 -394 -396 -68 -32 -551 -29 -615 5 -29 15 -169 148 -387 365 -378 376 -382 382 -383 497 0 81 -12 118 -61 189 -22 31 -49 85 -60 120 -12 36 -39 90 -61 121 -51 73 -58 103 -58 240 0 131 -8 163 -58 233 -56 80 -62 103 -62 239 0 140 -7 169 -62 248 -59 84 -58 78 -58 659 0 581 -1 575 58 659 55 79 62 108 62 247 0 139 4 153 67 245 43 65 45 70 53 166 8 105 13 121 65 193 18 25 42 74 54 110 11 35 38 89 60 120 21 30 48 85 60 123 39 117 228 315 331 346 56 17 168 8 219 -18z M15670 9099 c-71 -21 -403 -371 -426 -449 -11 -36 -37 -92 -60 -125 -22 -33 -51 -89 -62 -125 -12 -35 -39 -89 -61 -120 -21 -30 -48 -86 -61 -123 -24 -73 -38 -93 -145 -207 -97 -103 -122 -205 -76 -307 32 -69 55 -76 286 -83 242 -7 238 -6 389 -152 165 -162 146 115 146 -2058 0 -2007 3 -1901 -58 -1989 -22 -31 -49 -85 -61 -121 -11 -35 -38 -89 -60 -120 -21 -30 -48 -85 -60 -122 -12 -36 -39 -90 -60 -120 -47 -66 -61 -106 -61 -176 0 -115 -5 -108 355 -472 349 -353 351 -354 381 -475 4 -14 49 -72 100 -127 78 -84 98 -113 120 -172 32 -82 57 -110 110 -125 124 -34 225 11 254 115 7 25 32 74 55 108 23 33 50 86 60 116 31 97 42 109 435 505 420 424 410 411 410 525 0 88 -18 128 -95 210 -107 114 -121 134 -145 207 -13 37 -40 93 -62 124 -61 88 -58 9 -58 1620 0 1630 4 1525 -62 1620 -85 123 -85 355 0 478 22 31 49 87 62 124 24 73 38 93 145 207 56 60 75 88 93 141 29 81 47 100 138 137 39 16 87 41 107 56 20 15 69 40 109 55 40 15 104 46 142 69 167 101 258 75 477 -136 114 -110 155 -142 194 -157 96 -34 134 -56 185 -107 100 -98 90 161 90 -2293 0 -2348 -4 -2203 61 -2295 21 -31 49 -85 60 -120 12 -36 38 -87 57 -113 46 -64 61 -109 62 -183 0 -76 13 -113 65 -189 23 -34 47 -83 55 -109 17 -62 63 -109 124 -126 68 -19 110 -53 321 -260 185 -182 250 -230 313 -230 4 0 32 -16 62 -36 107 -70 102 -69 260 -69 200 0 307 68 355 226 11 35 38 90 61 124 22 33 51 91 63 128 25 73 39 93 146 208 61 63 75 85 91 140 10 35 37 91 60 124 22 33 51 89 62 125 12 36 40 91 61 123 22 32 49 86 61 122 12 35 39 90 61 123 52 78 59 119 27 157 -35 40 -63 29 -158 -59 -104 -98 -138 -109 -308 -104 -107 3 -134 7 -169 26 -62 33 -248 218 -272 272 -32 71 -32 4249 0 4320 32 72 233 262 304 289 135 51 171 101 130 181 -22 42 -62 59 -158 69 -88 9 -103 14 -200 74 -42 26 -75 37 -115 41 -116 12 -159 24 -221 65 -34 22 -86 47 -114 57 -29 9 -80 34 -115 56 -34 23 -92 51 -129 65 -96 35 -94 33 -503 439 -413 410 -411 408 -502 383 -50 -13 -171 -128 -182 -172 -28 -112 -44 -136 -225 -320 -236 -242 -306 -300 -387 -327 -70 -24 -102 -55 -124 -123 -19 -61 -54 -93 -133 -123 -66 -25 -84 -40 -216 -167 -224 -216 -259 -223 -423 -75 -117 106 -163 166 -190 250 -20 64 -33 83 -111 167 -97 105 -106 118 -133 206 -25 79 -123 183 -199 210 -108 38 -138 59 -278 195 -151 146 -158 151 -245 181 -31 11 -83 37 -117 58 -67 44 -113 55 -165 40z"/></g></svg>';
 
 /* ============ CISTERCIAN NUMERAL ============ */
 const SEG={1:[[0,0,1,0]],2:[[0,1,1,1]],3:[[0,0,1,1]],4:[[0,1,1,0]],
@@ -494,7 +562,7 @@ function startSession(key){
       skipped:false, notes:'',
       sets:Array.from({length:deloadSets(e[1])},(_,i)=>({n:i+1,weight:null,reps:null,done:false,ts:null}))
     })),
-    totalVolume:0, duration:0
+    totalVolume:0, duration:0, notes:''
   };
   show('scSess');
   renderSession();
@@ -689,26 +757,43 @@ function renderDone(){
   const s=LAST;
   LASTREC=recordsFor(s);
   const sets=s.exercises.reduce((a,e)=>a+e.sets.filter(x=>x.done).length,0);
-  let h='<h4>'+s.dayName+(s.isDeload?' · deload':'')+'</h4>'+
-    '<div class="bigstats">'+
-      '<div><div class="k">Duration</div><div class="v">'+dur(s.duration)+'</div></div>'+
-      '<div><div class="k">Volume</div><div class="v">'+Math.round(s.totalVolume).toLocaleString()+' kg</div></div>'+
-      '<div><div class="k">Records</div><div class="v">'+LASTREC.length+'</div></div>'+
-    '</div>'+
-    '<div class="lbl" style="margin:4px 0 10px">'+sets+' sets logged</div>';
+  const exs =s.exercises.filter(e=>e.sets.some(x=>x.done)).length;
+
+  $('doneMark').innerHTML=MARK;
+  $('doneWord').innerHTML=WORD;
+  $('doneNotes').value=s.notes||'';
+
+  /* 22,150 kg reads worse than 22.2k at this size — match the reference */
+  const v=Math.round(s.totalVolume);
+  const vs = v>=10000 ? (v/1000).toFixed(1)+'k' : v.toLocaleString();
+  $('volBig').innerHTML=vs+'<span class="u">kg</span>';
+
+  $('doneTrio').innerHTML=
+    '<div><div class="k">Exercises</div><div class="v">'+exs+'</div></div>'+
+    '<div><div class="k">Sets</div><div class="v">'+sets+'</div></div>'+
+    '<div><div class="k">Duration</div><div class="v">'+dur(s.duration)+'</div></div>';
+
+  let h='';
   if(LASTREC.length){
-    h+='<div style="margin-top:18px"><div class="lbl" style="margin-bottom:6px">Records</div>';
+    h='<div class="lbl" style="margin:0 0 8px">'+LASTREC.length+' record'+(LASTREC.length===1?'':'s')+'</div>';
     LASTREC.forEach(r=>{
       const g = r.kind==='first' ? 'first logged'
-              : r.kind==='weight' ? '+'+(Math.round((r.to-r.from)*10)/10)+' kg'
-              : '+'+(Math.round((r.to-r.from)*10)/10)+' est. 1RM';
+              : '+'+(Math.round((r.to-r.from)*10)/10)+(r.kind==='weight'?' kg':' est. 1RM');
       h+='<div class="rec'+(r.kind==='first'?' first':'')+'"><span class="n3">'+r.name+'</span><span class="g3">'+g+'</span></div>';
     });
-    h+='</div>';
   }
-  $('doneStats').innerHTML=h;
+  $('doneRecs').innerHTML=h;
 }
-$('doneHome').onclick=()=>{cardPhoto=null;show('scHome');renderHome();};
+$('doneHome').onclick=async()=>{
+  /* the session was already written on Finish — this only commits the note,
+     so closing the app mid-summary can never lose a workout */
+  const note=$('doneNotes').value.trim();
+  if(LAST && note!==(LAST.notes||'')){
+    LAST.notes=note;
+    try{await put('sessions',LAST);await load();}catch(e){}
+  }
+  cardPhoto=null;show('scHome');renderHome();
+};
 
 /* ============ SHARE CARD ============ */
 let CW=1080, CH=1920;                 /* 9:16 story by default */
@@ -909,10 +994,56 @@ function renderHist(){
   const done=SESSIONS.filter(s=>s.status==='completed').slice().reverse();
   $('histList').innerHTML=done.length?done.map(s=>{
     const sets=s.exercises.reduce((a,e)=>a+e.sets.filter(x=>x.done).length,0);
-    return '<div class="hrow"><span class="d">'+s.date.slice(5)+'</span>'+
+    return '<div class="hrow" data-id="'+s.id+'"><span class="d">'+s.date.slice(5)+'</span>'+
       '<span class="n2">'+s.dayName+(s.isDeload?' · deload':'')+'</span>'+
-      '<span class="v2">'+sets+' set'+(sets===1?'':'s')+' · '+Math.round(s.totalVolume).toLocaleString()+' kg</span></div>';
+      '<span class="v2">'+sets+' set'+(sets===1?'':'s')+' · '+Math.round(s.totalVolume).toLocaleString()+' kg</span>'+
+      '<span class="go">›</span></div>';
   }).join(''):'<div class="empty">Nothing logged yet.<br>Finish a session and it appears here.</div>';
+}
+$('histList').addEventListener('click',ev=>{
+  const row=ev.target.closest('.hrow'); if(!row)return;
+  const s=SESSIONS.find(x=>x.id===row.dataset.id); if(!s)return;
+  renderDetail(s); show('scDetail');
+});
+$('dtBack').onclick=()=>{show('scHist');renderHist();};
+
+/* ---- one completed session, every set as logged ---- */
+function renderDetail(s){
+  const sets=s.exercises.reduce((a,e)=>a+e.sets.filter(x=>x.done).length,0);
+  const exs =s.exercises.filter(e=>e.sets.some(x=>x.done)).length;
+  const recs=recordsFor(s), recNames={};
+  recs.forEach(r=>recNames[r.name]=r);
+
+  $('dtName').textContent=s.dayName+(s.isDeload?' · deload':'');
+  $('dtSub').textContent=s.date+' · cycle '+(s.cycle||1);
+  const v=Math.round(s.totalVolume);
+  $('dtStats').innerHTML=
+    '<div><div class="k">Volume</div><div class="v gold">'+(v>=10000?(v/1000).toFixed(1)+'k':v.toLocaleString())+' kg</div></div>'+
+    '<div><div class="k">Exercises</div><div class="v">'+exs+'</div></div>'+
+    '<div><div class="k">Sets</div><div class="v">'+sets+'</div></div>'+
+    '<div><div class="k">Duration</div><div class="v">'+dur(s.duration)+'</div></div>';
+
+  let h='';
+  s.exercises.forEach(e=>{
+    const done=e.sets.filter(x=>x.done);
+    const pr=recNames[e.name];
+    h+='<div class="dtEx'+(done.length?'':' sk')+'">'+
+       '<h5>'+e.name+(pr?' <span style="color:var(--crimson);font-size:12px">· record</span>':'')+'</h5>'+
+       '<div class="tg">'+(e.targets?e.targets.join(' / '):'')+(e.repRange?' · '+e.repRange:'')+'</div>';
+    if(done.length){
+      const bestE=Math.max.apply(null,done.map(x=>e1rm(x.weight,x.reps)));
+      h+='<div class="dtSets">'+done.map(x=>{
+        const top=pr&&Math.abs(e1rm(x.weight,x.reps)-bestE)<0.01;
+        return '<span class="dtSet'+(top?' pr':'')+'">'+x.weight+' × '+x.reps+'</span>';
+      }).join('')+'</div>';
+    } else {
+      h+='<div class="tg" style="margin:0;color:var(--dim)">Not logged</div>';
+    }
+    h+='</div>';
+  });
+  if(s.notes) h+='<div class="dtEx"><div class="k lbl">Notes</div><p class="dtNote">'+
+     s.notes.replace(/[<>&]/g,c=>({'<':'&lt;','>':'&gt;','&':'&amp;'}[c]))+'</p></div>';
+  $('dtBody').innerHTML=h;
 }
 
 /* ============ SETTINGS ============ */
@@ -1009,6 +1140,7 @@ async function load(){
 (async()=>{
   try{await open();}catch(e){document.body.innerHTML='<div class="empty">This browser blocked local storage.<br>Open in Safari, not a private window.</div>';return;}
   $('mark').innerHTML=MARK;
+  $('wordmark').innerHTML=WORD;
   const active=await load();
   renderHome();
   if(active){

diff --git a/sw.js b/sw.js
@@ -1,4 +1,4 @@
-const CACHE = 'sanctum-v8';
+const CACHE = 'sanctum-v10';
 const ASSETS = [
   './',
   './index.html',

diff --git a/INSTALL.md b/INSTALL.md
@@ -36,12 +36,33 @@ and there is no account or server.
 The trade-off: **delete the home-screen icon and the data goes with it.** Export a backup
 now and then — Settings → Export backup — and drop it in iCloud Drive.
 
-## Typeface credit
+## Identity
 
-The mark is the letter S from **UnifrakturCook**, licensed under the SIL Open Font
-License 1.1, free for commercial use. It is drawn into the page as an SVG path, so no
-font file is downloaded at runtime and the mark renders offline like everything else.
-If Sanctum ever goes commercial, the same licence covers garment printing.
+Mark and wordmark are **traced from your own reference**, not set in a substitute typeface.
+I isolated the crimson pixels from the screenshot, upscaled and smoothed them, and ran the
+result through potrace; the vector reproduces the source at 98.2% pixel overlap for the S.
+Both live in the page as inline SVG paths, so nothing downloads at runtime and they render
+offline like everything else.
+
+Palette sampled from the same screenshot: crimson `#B92022`, gold `#CDAB58`, ground
+`#0A0A0C`. The gold lozenge sits at 53.4% across and 49.6% down the S, matching the
+reference. Gold is reserved for the volume figure and nothing else.
+
+Because the mark is now traced rather than set in UnifrakturCook, the SIL Open Font Licence
+no longer applies to it. It's your artwork, so nothing is owed — but if the original letter
+came from a commercial typeface, check that font's licence before putting the mark on
+merchandise.
+
+## Session summary and history
+
+Finishing a session shows the summary: mark, wordmark, *Progress vaulted.*, the volume in
+gold, then exercises / sets / duration, a Notes field and Save.
+
+**Save only commits the note.** The session itself is written the moment you press Finish,
+so quitting the app on the summary screen can never lose a workout.
+
+In **History**, tapping any session opens it in full — every exercise with each set as
+`weight × reps`, the set that set a record outlined in crimson, and your note at the end.
 
 ## Session card
 
